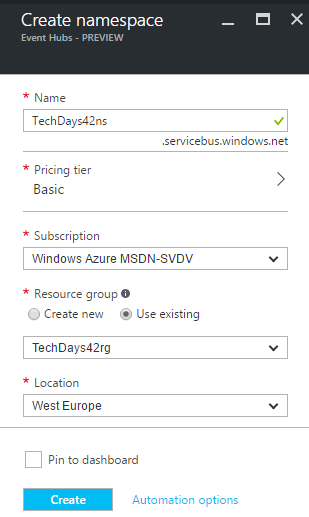
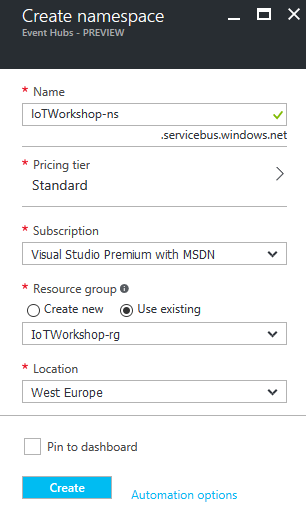
Namespace

diff --git a/Azure.md b/Azure.md
@@ -74,7 +74,7 @@ Follow these steps to create an Azure Event Hub which passes large amounts of ev
 5. An introduction will be shown. Select `Create`
 6. Event Hubs live within namespaces. So first a new namespace must be created
 7. A dialog for the new namespace is shown
-8. Enter a unique namespace name eg. `TechDays42ns`. A green sign will be shown if the name is unique
+8. Enter a unique namespace name eg. `IoTWorkshop-ns`. A green sign will be shown if the name is unique
 9. Select a pricing tier. Select the `pricing tier` selection. A 'Choose your pricing tier' section will be shown. Select the `Basic tier` or `Standard tier` and press `select`
 
     ![alt tag](img/azure-namespace-pricingtier.png)
@@ -85,9 +85,9 @@ Follow these steps to create an Azure Event Hub which passes large amounts of ev
     ![alt tag](img/azure-create-eventhub-namespace.png)
 
 12. Select `Create` and the portal will start creating the namespace. Once it is created, a notification is shown
-13. Creating a namespace will take some time, but we want to complete this step
+13. Creating a namespace will take some time, we have to check the completion this step
 14. So navigate back to the resource group (repeat step 1 and 2) and check the namespace creation in the resource group
-15. If the namespace becomes listed, select `TechDays42ns`. Otherwise, 'refresh' the list a few times
+15. If the namespace has become listed, select it, eg. `IoTWorkshop-ns`. Otherwise, 'refresh' the list a few times
 
     ![alt tag](img/azure-portal-refresh.png)
 
